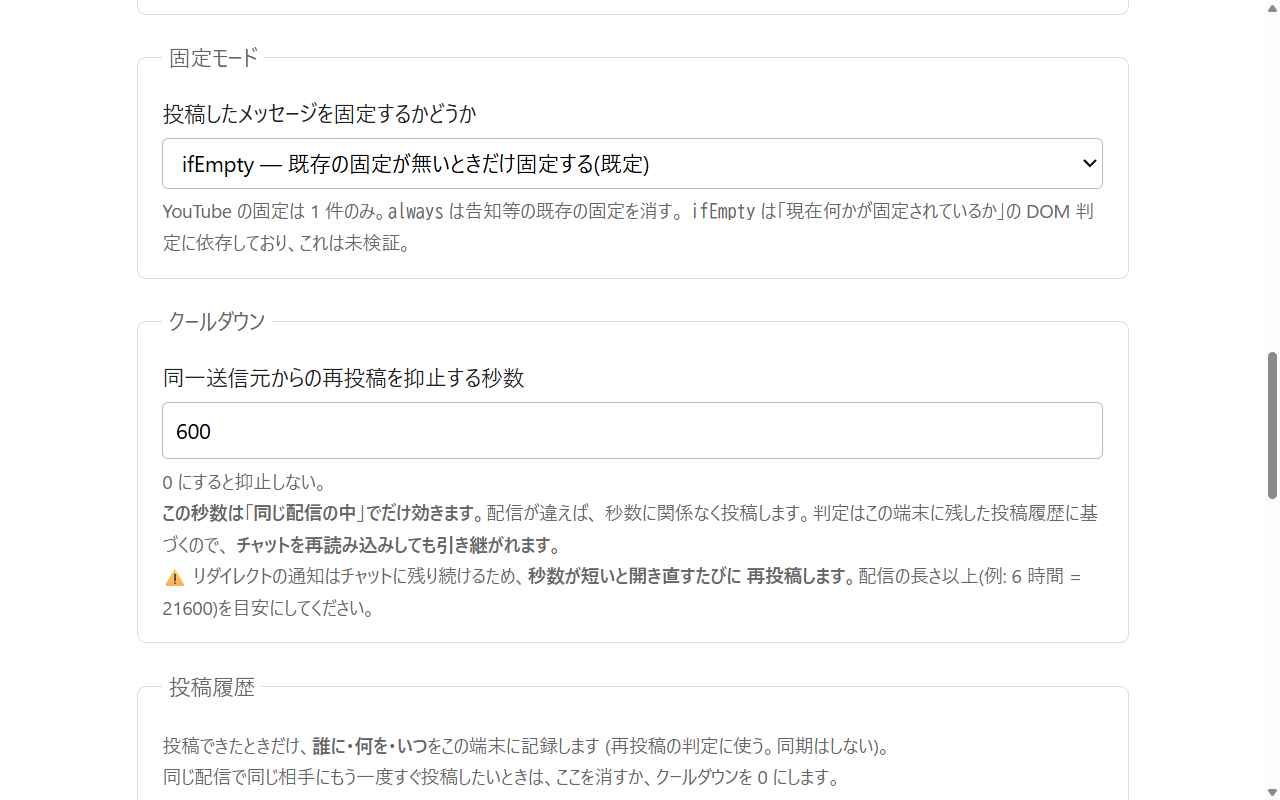
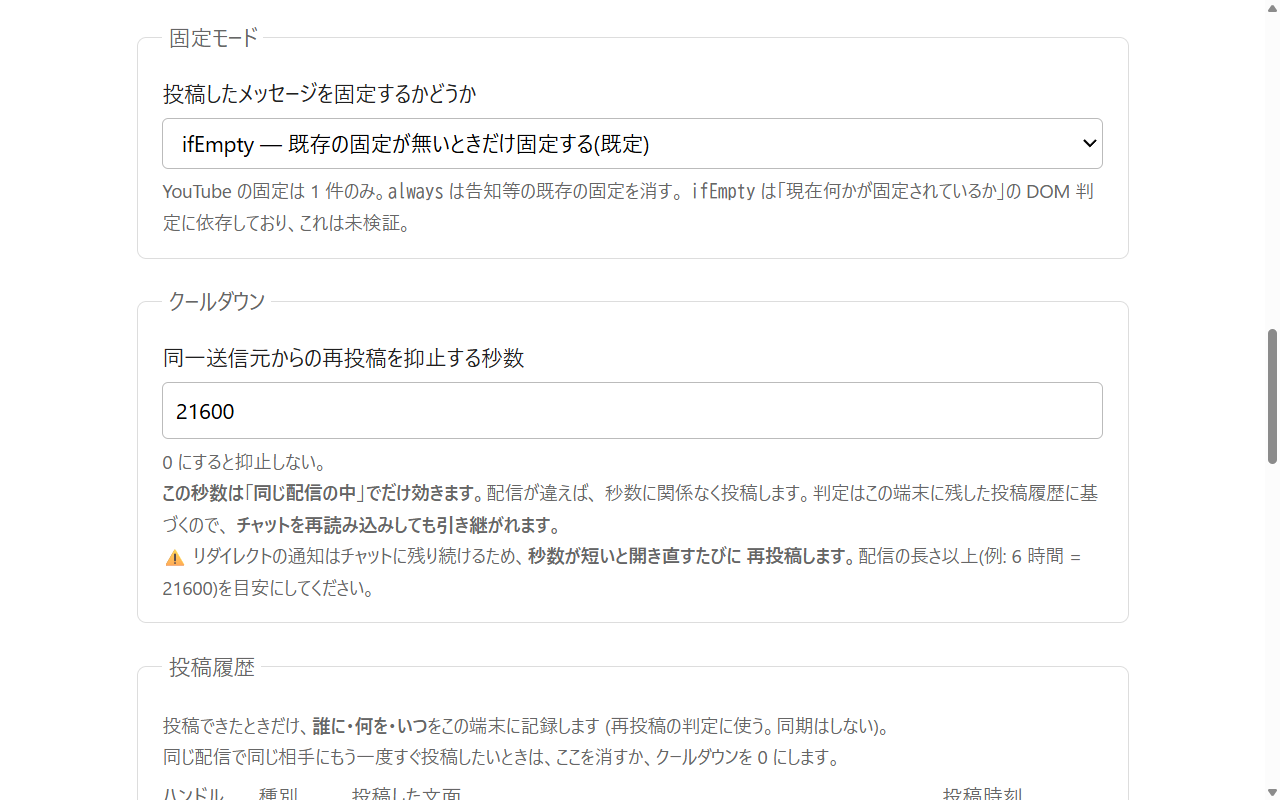
スクリーンショットを撮り直して 4 枚にする (#88)
#338 の前提「3 枚目が辞書テーブルと合っていない」は既に古かった。
3 枚目は 004 のあと (#67) に撮り直されていて、⚠ の行も自動登録の
空行もダミー名も入っている。

実際に効く穴は別の 3 つだった:

- 1 枚目にコメント返しのセクションが写っていない。掲載文は「引き金は
  2 種類」を前面に出すのに、絵はリダイレクト返礼しか見せていなかった
- 辞書の絵に展開した行が無く、004 の中身 (自由文 2 本と「コメントに
  反応する」) が見えなかった
- 見本データのクールダウンが 600 (10 分) で、実装の既定 21600 (6 時間)
  と食い違っていた

4 枚に組み替えた。辞書の 1 枚は、畳んだ行・開いた行・⚠ の行・自動登録
された空の行が 1 枚に収まる位置で撮った。

あわせて docs/d3-automation-policy.md の「既定クールダウン 10 分」を
6 時間に修正した。src/config.ts は 6 * 60 * 60 で、README も 6 時間。
D3 の「投稿頻度は低い」という論拠に使われている数字だった。

撮影は npm run site-assets の版下を 1280x800 で撮るだけで、手作業では
ない。その旨を store-submission.md に書いた。

rail #338 #445

diff --git a/docs/index.html b/docs/index.html
@@ -517,14 +517,27 @@
 
       <figure>
         <img
+          src="assets/screenshot-4-comment.png"
+          width="1280"
+          height="800"
+          loading="lazy"
+          alt="設定画面のコメント返しのセクション。「コメントに反応して投稿する」のチェックボックスと、コメント返し専用の投稿文テンプレートの入力欄、その下に差し込み後のプレビューが表示されている"
+        />
+        <figcaption>
+          コメント返しは<b>リダイレクト返礼とは別のスイッチ・別のテンプレート</b>。既定は OFF
+        </figcaption>
+      </figure>
+
+      <figure>
+        <img
           src="assets/screenshot-3-directory.png"
           width="1280"
           height="800"
           loading="lazy"
-          alt="呼び名の辞書の表。ハンドルと呼び名の行が並び、各行は畳まれていて三角印で開くと自由文などが出る。チャンネル ID を取得できていない行は色が付き ⚠ が出ている。末尾に新規登録用の入力欄がある"
+          alt="呼び名の辞書の表。ハンドルと呼び名の行が並び、2 行目が開いて「コメントに反応する」のチェック、チャンネル ID、リダイレクト返礼用とコメント返し用の自由文 2 本が見えている。チャンネル ID を取得できていない行は色が付き ⚠ が出ている。末尾に新規登録用の入力欄がある"
         />
         <figcaption>
-          リダイレクトを受けた相手は自動で載る (呼び名も自由文も空のまま)。行を開くと自由文やコメント返しの設定が出る。<b>⚠ の行はコメントに反応しない</b>
+          リダイレクトを受けた相手は自動で載る (呼び名も自由文も空のまま)。<b>行を開くと自由文 2 本と「コメントに反応する」が出る</b> (2 行目が開いた状態)。<b>⚠ の行はコメントに反応しない</b>
           (チャンネル ID が取れていない)
         </figcaption>
       </figure>
